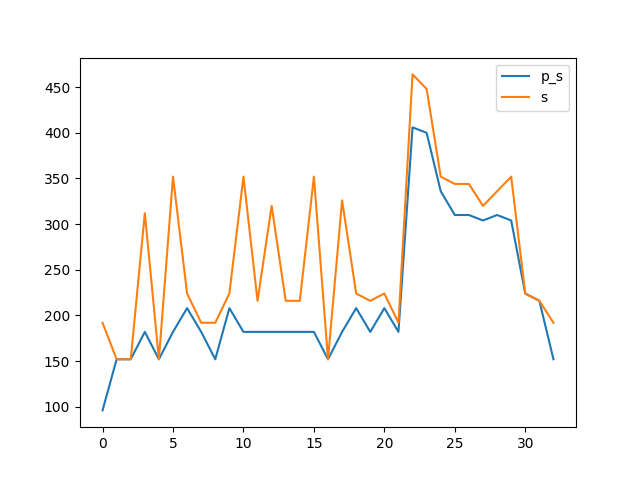
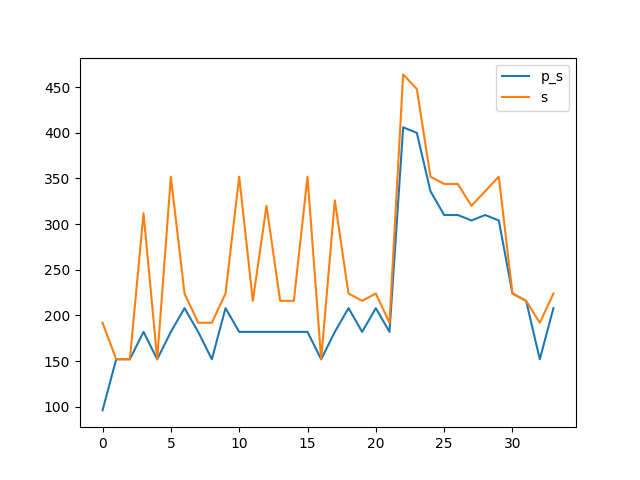
0x0021

diff --git a/benchmark.md b/benchmark.md
@@ -64,16 +64,18 @@ Synthesising 0x001F pexact:216 r=3 exact:216 r=3
 
 Synthesising 0x0020 pexact:152 r=3 exact:192 r=3
 
+Synthesising 0x0021 pexact:208 r=4 exact:224 r=3
+
 ```mermaid
 xychart-beta
     title "Comparison powertwoexact twoexact"
-    x-axis [0, 1, 2, 3, 4, 5, 6, 7, 8, 9, 10, 11, 12, 13, 14, 15, 16, 17, 18, 19, 20, 21, 22, 23, 24, 25, 26, 27, 28, 29, 30, 31, 32]
+    x-axis [0, 1, 2, 3, 4, 5, 6, 7, 8, 9, 10, 11, 12, 13, 14, 15, 16, 17, 18, 19, 20, 21, 22, 23, 24, 25, 26, 27, 28, 29, 30, 31, 32, 33]
     y-axis "Switching Activity" 0-->464
-    line [96, 152, 152, 182, 152, 182, 208, 182, 152, 208, 182, 182, 182, 182, 182, 182, 152, 182, 208, 182, 208, 182, 406, 400, 336, 310, 310, 304, 310, 304, 224, 216, 152]
-    line [192, 152, 152, 312, 152, 352, 224, 192, 192, 224, 352, 216, 320, 216, 216, 352, 152, 326, 224, 216, 224, 192, 464, 448, 352, 344, 344, 320, 336, 352, 224, 216, 192]
-    line [216.4848484848485, 216.4848484848485, 216.4848484848485, 216.4848484848485, 216.4848484848485, 216.4848484848485, 216.4848484848485, 216.4848484848485, 216.4848484848485, 216.4848484848485, 216.4848484848485, 216.4848484848485, 216.4848484848485, 216.4848484848485, 216.4848484848485, 216.4848484848485, 216.4848484848485, 216.4848484848485, 216.4848484848485, 216.4848484848485, 216.4848484848485, 216.4848484848485, 216.4848484848485, 216.4848484848485, 216.4848484848485, 216.4848484848485, 216.4848484848485, 216.4848484848485, 216.4848484848485, 216.4848484848485, 216.4848484848485, 216.4848484848485, 216.4848484848485]
-    line [264.90909090909093, 264.90909090909093, 264.90909090909093, 264.90909090909093, 264.90909090909093, 264.90909090909093, 264.90909090909093, 264.90909090909093, 264.90909090909093, 264.90909090909093, 264.90909090909093, 264.90909090909093, 264.90909090909093, 264.90909090909093, 264.90909090909093, 264.90909090909093, 264.90909090909093, 264.90909090909093, 264.90909090909093, 264.90909090909093, 264.90909090909093, 264.90909090909093, 264.90909090909093, 264.90909090909093, 264.90909090909093, 264.90909090909093, 264.90909090909093, 264.90909090909093, 264.90909090909093, 264.90909090909093, 264.90909090909093, 264.90909090909093, 264.90909090909093]
-    bar [80, 60, 60, 80, 60, 80, 80, 80, 60, 80, 80, 80, 80, 80, 80, 80, 60, 80, 80, 80, 80, 80, 120, 120, 100, 100, 100, 100, 100, 100, 60, 60, 60]
-    bar [80, 60, 60, 80, 60, 80, 60, 60, 60, 60, 80, 60, 80, 60, 60, 80, 60, 80, 60, 60, 60, 60, 100, 100, 80, 80, 80, 80, 80, 80, 60, 60, 60]
+    line [96, 152, 152, 182, 152, 182, 208, 182, 152, 208, 182, 182, 182, 182, 182, 182, 152, 182, 208, 182, 208, 182, 406, 400, 336, 310, 310, 304, 310, 304, 224, 216, 152, 208]
+    line [192, 152, 152, 312, 152, 352, 224, 192, 192, 224, 352, 216, 320, 216, 216, 352, 152, 326, 224, 216, 224, 192, 464, 448, 352, 344, 344, 320, 336, 352, 224, 216, 192, 224]
+    line [216.23529411764707, 216.23529411764707, 216.23529411764707, 216.23529411764707, 216.23529411764707, 216.23529411764707, 216.23529411764707, 216.23529411764707, 216.23529411764707, 216.23529411764707, 216.23529411764707, 216.23529411764707, 216.23529411764707, 216.23529411764707, 216.23529411764707, 216.23529411764707, 216.23529411764707, 216.23529411764707, 216.23529411764707, 216.23529411764707, 216.23529411764707, 216.23529411764707, 216.23529411764707, 216.23529411764707, 216.23529411764707, 216.23529411764707, 216.23529411764707, 216.23529411764707, 216.23529411764707, 216.23529411764707, 216.23529411764707, 216.23529411764707, 216.23529411764707, 216.23529411764707]
+    line [263.70588235294116, 263.70588235294116, 263.70588235294116, 263.70588235294116, 263.70588235294116, 263.70588235294116, 263.70588235294116, 263.70588235294116, 263.70588235294116, 263.70588235294116, 263.70588235294116, 263.70588235294116, 263.70588235294116, 263.70588235294116, 263.70588235294116, 263.70588235294116, 263.70588235294116, 263.70588235294116, 263.70588235294116, 263.70588235294116, 263.70588235294116, 263.70588235294116, 263.70588235294116, 263.70588235294116, 263.70588235294116, 263.70588235294116, 263.70588235294116, 263.70588235294116, 263.70588235294116, 263.70588235294116, 263.70588235294116, 263.70588235294116, 263.70588235294116, 263.70588235294116]
+    bar [80, 60, 60, 80, 60, 80, 80, 80, 60, 80, 80, 80, 80, 80, 80, 80, 60, 80, 80, 80, 80, 80, 120, 120, 100, 100, 100, 100, 100, 100, 60, 60, 60, 80]
+    bar [80, 60, 60, 80, 60, 80, 60, 60, 60, 60, 80, 60, 80, 60, 60, 80, 60, 80, 60, 60, 60, 60, 100, 100, 80, 80, 80, 80, 80, 80, 60, 60, 60, 60]
 ```
 
